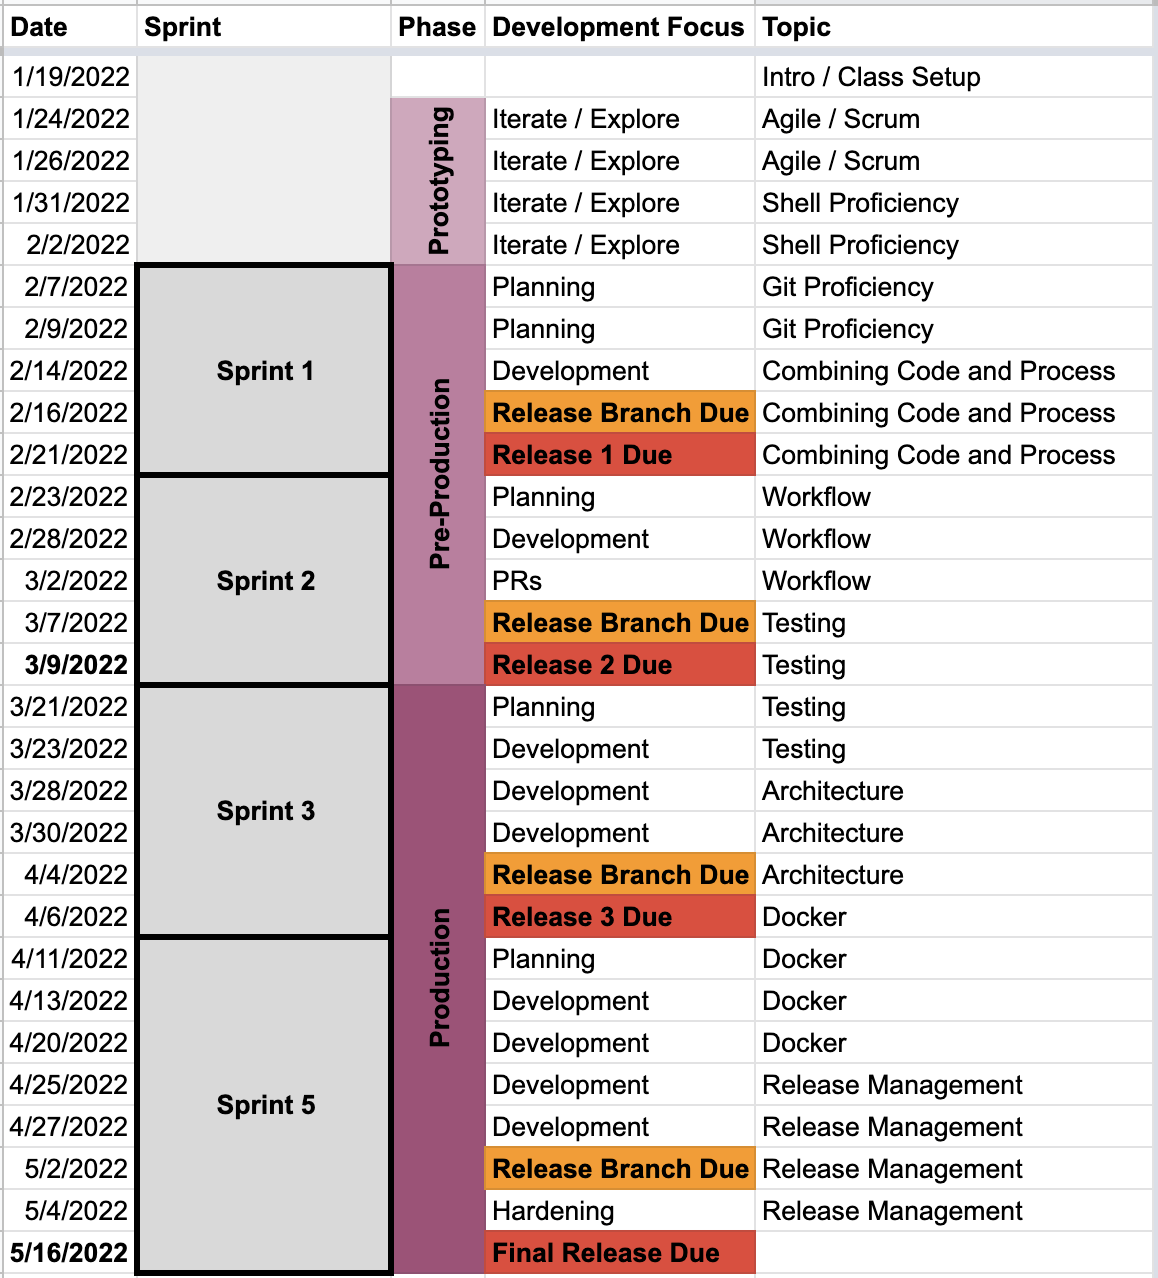
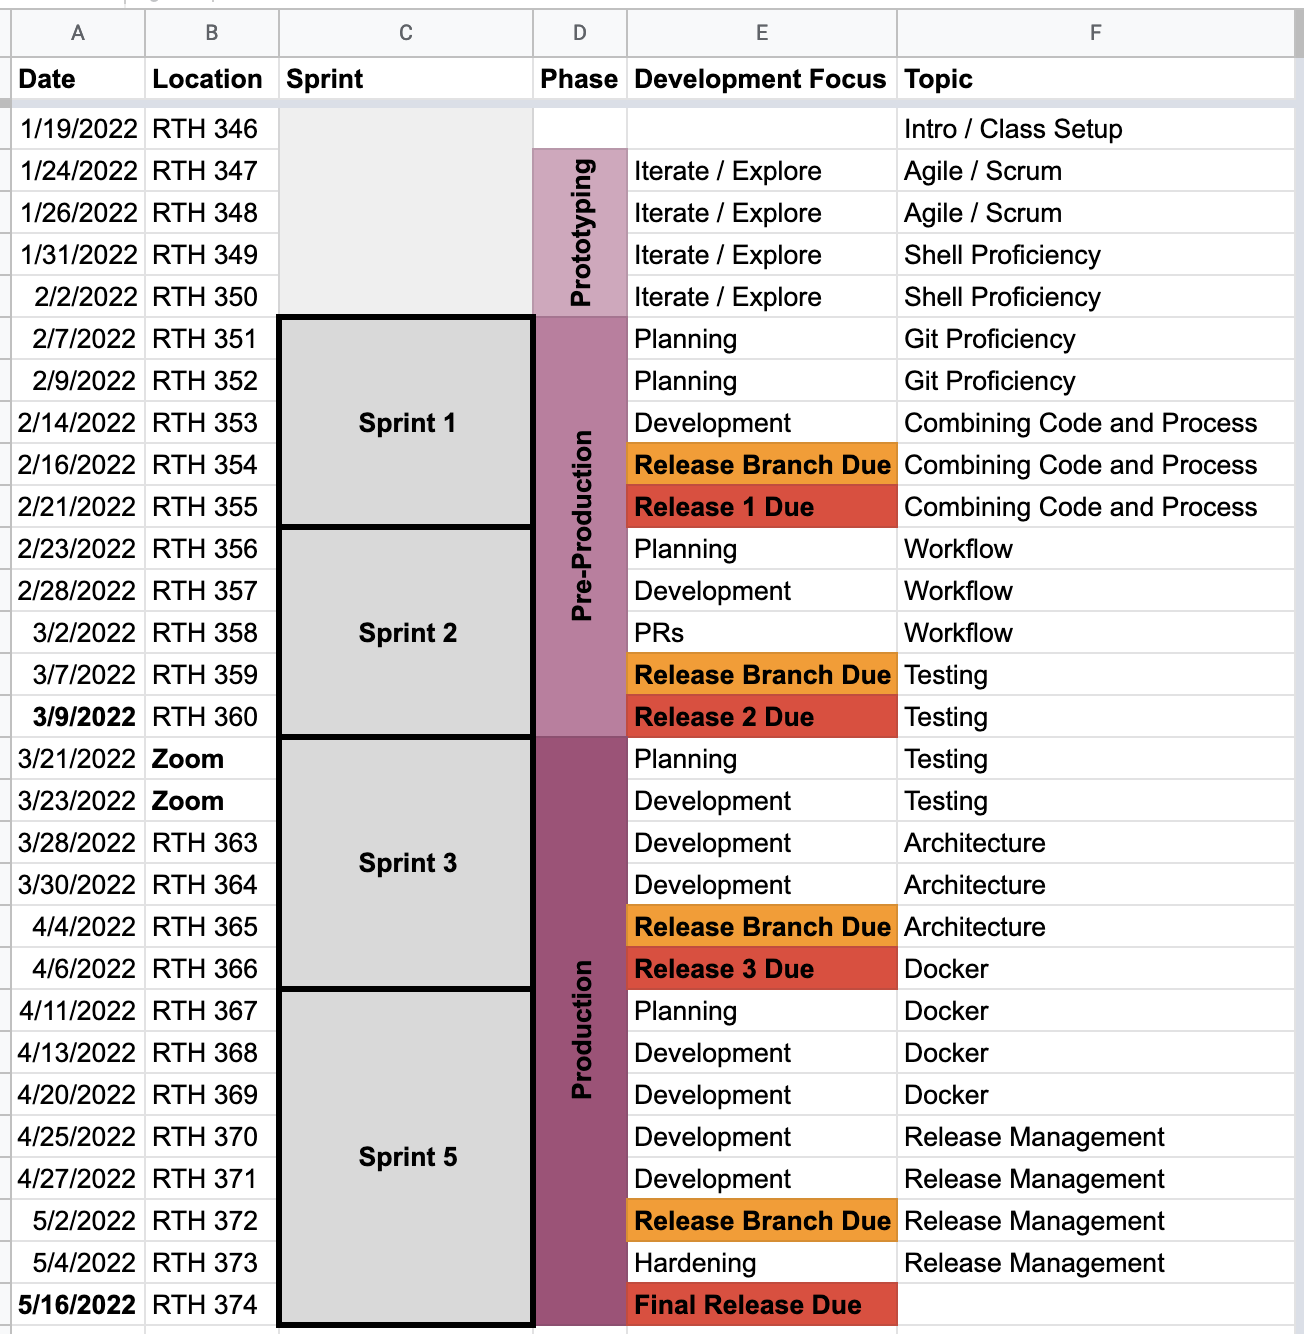
Syllabus updates.

diff --git a/notes/syllabus.md b/notes/syllabus.md
@@ -1,19 +1,19 @@
 
 ## CSCI 5030
 
-**Time** We will meet Monday and Wednesday from 6:15-7:30 PM in RTH 346.
+**Time** We will meet Monday and Wednesday from 6:15-7:30 PM in RTH 346. [Full calendar below](#calendar).
 
 **Instructor** Benjamin Jordan
 
-**Contact** benjamin.jordan@slu.edu
+**Email** benjamin.jordan@slu.edu
 
 **Discord** https://discord.gg/2DBgnzH3
 
-**Office Hours** I do not hold regular office hours but will respond in a timely manner over Discord or email, as I am online from 9AM - 5PM M-F. Over the weekend, email is the best bet.
+**Office Hours** I do not hold regular office hours but will respond in a timely manner over Discord or email from 9AM - 5PM M-F. Nights and weekends my reponse time will vary but I will try my best to respond quickly.
 
 ## Course Description
 
-An overview of software development at a graduate level, including software engineering processes, software design and architecture, testing and quality assurance, and selected other topics of interest to software practitioners.
+> An overview of software development at a graduate level, including software engineering processes, software design and architecture, testing and quality assurance, and selected other topics of interest to software practitioners.
 
 ## Student Learning Outcomes
 
@@ -26,25 +26,25 @@ After successfully completing this course, students will be able to:
 - Design and implement thorough test suites.
 - Conduct effective code reviews and refactor existing code.
 
-## Requirements
+## Required Resources
 
-There is no textbook for this course, but students must have access to a computer running macOS, Linux, or Windows for development.
+There is no textbook for this course, but students must have access to a computer running macOS, Linux, or Windows for development as well as a web browser for readings.
 
 Students also have the option of doing their work on departmental computer systems, including our server: `hopper.slu.edu`. Contact me if you need help accessing these resources.
-
-## Structure
-
-This class will be a combination of discussion, planning, coding, and review in breakout groups. Each group will work together on a long-term project, which will culminate in a deployed application at the end of the semester.
 
 ## Attendence
 
 Students are expected to attend all class meetings, participate in discussions, and take part in sprint meetings with their group. In case of illness or other serious situations, students should contact the instructor to explain the reason for their absence. Unexcused absences will count against the student’s grade on the semester project.
 
-## Covid Policy
+### Covid Policy
 
-For this semester, we will be meeting **in-person**. This is subject to change given the evolving nature of the pandemic, and further detail can be found [here](https://www.slu.edu/provost/faculty-affairs/teaching-resources-for-faculty/course-syllabus-information/syllabus-statements/syllabus-stmt_in-class-attendance-and-participation.docx). Suffice it to say, if you are feeling ill or are required to quarantine, let me know and we will accommodate via a combination of Zoom, recorded lectures, or supplemental resources.
+For this semester, we will be meeting, primarily, **in-person**. This is subject to change given the evolving nature of the pandemic, and further detail on  SLU policy may be found [here](https://www.slu.edu/provost/faculty-affairs/teaching-resources-for-faculty/course-syllabus-information/syllabus-statements/syllabus-stmt_in-class-attendance-and-participation.docx). Suffice it to say, if you are feeling ill or are required to quarantine, let me know and we will accommodate via a combination of Zoom, recorded lectures, or supplemental resources. If _I_ am ill or required to quarantine, we will meet via Zoom.
 
-All students are required to wear face masks at all times during class, as given by [SLU Policy](https://www.slu.edu/provost/faculty-affairs/teaching-resources-for-faculty/course-syllabus-information/syllabus-statements/syllabus-stmt_face-masks.docx).
+As a reminder, **all students are required to wear face masks** at all times when in the building, as given by the [SLU Face Mask Policy](https://www.slu.edu/provost/faculty-affairs/teaching-resources-for-faculty/course-syllabus-information/syllabus-statements/syllabus-stmt_face-masks.docx).
+
+## Structure
+
+This class will be broken up into lectures and breakout group work. We will be covering major topics using assigned readings and lectures, then applying those learnings in group-based product development. Each group will work together on a long-term project, which will culminate in a deployed application at the end of the semester.
 
 ## Grading
 
@@ -56,23 +56,27 @@ Grading will be done primarily on work committed to GitHub and deployed software
 
 > If code does not run, it is incomplete.
 
-**_Any resource_ may be used to complete assignments** unless otherwise specified. Google things. Talk to other people. Discuss approaches in the Discord. Use open source code. However, all work must be properly attributed (see [**Academic Integrity**](#Academic_Integrity) section). It is also up to my discretion to determine if a group is using too much code found elsewhere. In such a case, the third party code must be removed.
+**_Any resource_ may be used to complete assignments** unless otherwise specified. Google things. Talk to other people. Discuss approaches in the Discord. Use open source code. However, all work must be properly attributed (see [**Academic Integrity**](#Academic_Integrity) section).
+
+It is up to my discretion to determine if a group is using too much code "found elsewhere". In such a case, the third party code must be removed.
+
+### Assigned Readings
+
+When readings are assigned, they should be completed by the next class as they are part of the group discussion. Additionally, lectures may not make sense without having read the assigned material.
 
 ### Assignments
 
-The largest single component of this course will be the programming assigments, which will generally be focused toward the semester project.
+The largest single component of this course will be the hands-on assigments, which will generally be focused toward the semester project. These assignments will be code, process, or documentation related.
 
-- All due dates will be specified with the work, and will always be within the next sprint release.
-- Assignments that miss a release will lose 10% immediately and 10% every week thereafter.
-- Incomplete assignments will lose an automatic 20%.
-
-While code and documentation delivery will fluctuate, **readings should be completed by the next class**.
+- All due dates will be specified with the work.
+- Assignments that come in past the due date will lose 10% immediately and 10% every week thereafter.
+- Incomplete assignments will lose an automatic 15%. It is better for work to be late than incomplete.
 
 ### Exams
 
 Exams will be in the form of _releases_, i.e. deliveries of a software product. There are four releases, given in the [Calendar](#Calendar) section below.
 
-### Weighting
+### Scale / Weighting
 
 Grading will be on an uncurved scale:
 
@@ -90,7 +94,7 @@ Grades will be weighted as follows:
 
 ||Weight|
 |-|-|
-|Assignments / PRs|30%|
+|Assignments|30%|
 |Release 1|15%|
 |Release 2|15%|
 |Release 3|15%|
@@ -104,13 +108,13 @@ Class will meet at the following times and cover these rough topics.
 
 ## Academic Integrity 
 
-The University policy may be found [here](https://www.slu.edu/provost/faculty-affairs/teaching-resources-for-faculty/course-syllabus-information/syllabus-statements/syllabus-stmt_academic-integrity.docx). In addition, students are expected to follow the [Honesty Policy of the College of Arts & Sciences](http://www.slu.edu/college-of-arts-and-sciences-home/undergraduate-education/academic-honesty).
+University policy may be found [here](https://www.slu.edu/provost/faculty-affairs/teaching-resources-for-faculty/course-syllabus-information/syllabus-statements/syllabus-stmt_academic-integrity.docx). In addition, students are expected to follow the [Honesty Policy of the College of Arts & Sciences](http://www.slu.edu/college-of-arts-and-sciences-home/undergraduate-education/academic-honesty).
 
-For the purposes of this clas, we will likely be using Open Source Software, which must follow industry-standard licensing protocol:
+For the purposes of this clas, we will be leaning heavily on Open Source Software, which must follow industry-standard licensing protocol:
 
-- If you are using someone else's code, you _must include the license_ provided by the author. If there is no license, you cannot use it. In addition, [verify that the license](https://tldrlegal.com/) associated with the code allows the given educational usage. Generally, attribution must be included with the code. Some licenses are more restrictive and may not allow you to use code at all.
+- If you are using code you didn't write, that code must be licensed by the author. If there is no license, you cannot use it. In addition, verify that the provided license associated with the code allows the given educational usage. See [TLDR Legal](https://tldrlegal.com/) if you are unsure. Generally, licenses must be included in the codebase and attribution must be included with the code. Some licenses are more restrictive and may not allow you to use code at all.
 
-- For short bits (less than 10 lines) copy/pasted from knowledge bases (like StackOverflow) or blogs, include a link to the resource as a code comment. For longer excerpts, please get explicit permission from me.
+- For short bits (<= 10 lines) copy/pasted from knowledge bases (like StackOverflow) or blogs, include a link to the resource as a code comment. For longer excerpts, please get explicit permission from me.
 
 ## Disability Accommodations
 
